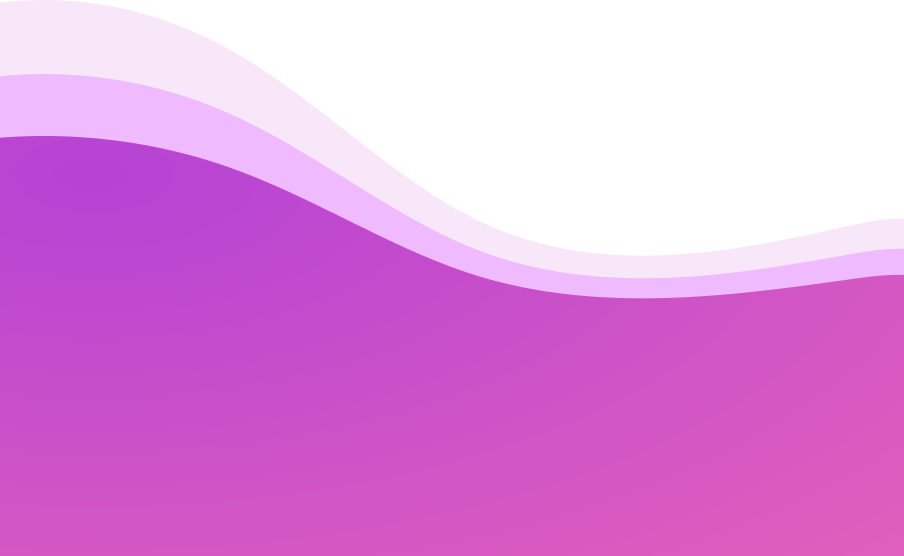
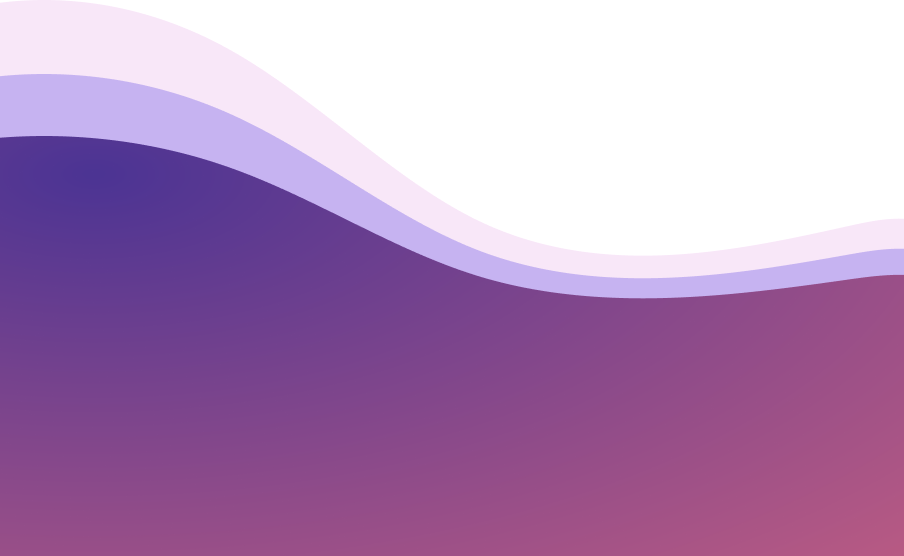
demo update merchant

diff --git a/src/screens/home/index.js b/src/screens/home/index.js
@@ -25,9 +25,13 @@ const HomeScreen = ({navigation}) => {
   // ===== SET STATUS BAR
   useFocusEffect(
     React.useCallback(() => {
-      StatusBar.setBackgroundColor(Colors.COLOR_SECONDARY);
+      StatusBar.setBackgroundColor(Colors.COLOR_PRIMARY);
+      StatusBar.setBarStyle('light-content');
 
-      return () => StatusBar.setBackgroundColor(Colors.COLOR_WHITE);
+      return () => {
+        StatusBar.setBackgroundColor(Colors.COLOR_WHITE);
+        StatusBar.setBarStyle('dark-content');
+      };
     }, []),
   );
 
@@ -131,7 +135,7 @@ const HomeScreen = ({navigation}) => {
             <Icon
               name="md-notifications-outline"
               size={20}
-              color={Colors.COLOR_BLACK}
+              color={Colors.COLOR_PRIMARY}
             />
           </Touchable>
         </Row>
@@ -147,7 +151,14 @@ const HomeScreen = ({navigation}) => {
         <View style={styles.cardContainer}>
           <Row>
             <View>
-              <Text style={styles.textBalanceCaption}>Total Saldo</Text>
+              <Row>
+                <Text style={styles.textBalanceCaption}>Saldo</Text>
+                <Image
+                  source={IMG.logo}
+                  style={styles.logoSmall}
+                  resizeMode={'contain'}
+                />
+              </Row>
               <Row>
                 <Text style={styles.textRp}>Rp</Text>
                 <Text style={styles.textRupiah}>10.000</Text>
@@ -246,7 +257,7 @@ const HomeScreen = ({navigation}) => {
 
   return (
     <SafeAreaView style={styles.container} forceInset={{top: 'always'}}>
-      <StatusBar backgroundColor={Colors.COLOR_SECONDARY} />
+      <StatusBar backgroundColor={Colors.COLOR_PRIMARY} />
       {_renderHeader()}
       {_renderCardBalance()}
       {_renderService()}
@@ -257,7 +268,7 @@ const HomeScreen = ({navigation}) => {
 const styles = StyleSheet.create({
   container: {
     flex: 1,
-    backgroundColor: Colors.COLOR_SECONDARY,
+    backgroundColor: Colors.COLOR_PRIMARY,
   },
 
   header: {
@@ -314,7 +325,7 @@ const styles = StyleSheet.create({
   },
 
   notifButton: {
-    backgroundColor: Colors.COLOR_DARK_BACKGROUND,
+    backgroundColor: Colors.COLOR_WHITE,
     width: Scaler.scaleSize(28),
     height: Scaler.scaleSize(28),
     alignItems: 'center',
@@ -343,10 +354,23 @@ const styles = StyleSheet.create({
     marginVertical: Size.SIZE_8,
   },
 
+  iconService: {
+    width: Scaler.scaleSize(42),
+    height: Scaler.scaleSize(42),
+  },
+
+  logoSmall: {
+    width: Scaler.scaleSize(40),
+    height: Scaler.scaleSize(20),
+    marginTop: -4,
+    marginLeft: 4,
+  },
+
   // ======= TEXT STYLE
 
   textName: {
     ...Typo.TextSmallMedium,
+    color: Colors.COLOR_WHITE,
   },
 
   textActivateAcc: {

diff --git a/src/screens/login/index.js b/src/screens/login/index.js
@@ -112,6 +112,16 @@ const LoginScreen = ({navigation, route}) => {
           </Touchable>
         </Row>
       </View>
+      <View style={styles.bottomContainer}>
+        <Row>
+          <Text style={styles.textPoweredBy}>Powered by</Text>
+          <Image
+            source={IMG.logo}
+            style={styles.logoBy}
+            resizeMode={'contain'}
+          />
+        </Row>
+      </View>
       <Modal visible={isLoading} type={'loading'} />
     </KeyboardAvoidingView>
   );
@@ -129,6 +139,12 @@ const styles = StyleSheet.create({
   logo: {
     width: Scaler.scaleSize(128),
     height: Scaler.scaleSize(128),
+  },
+
+  logoBy: {
+    width: Scaler.scaleSize(64),
+    height: Scaler.scaleSize(64),
+    marginLeft: Size.SIZE_8,
   },
 
   loginButton: {
@@ -155,6 +171,13 @@ const styles = StyleSheet.create({
     padding: Size.SIZE_24,
   },
 
+  bottomContainer: {
+    position: 'absolute',
+    alignSelf: 'center',
+    bottom: 0,
+    marginBottom: Size.SIZE_14,
+  },
+
   // ==== TEXT STYLE
 
   textDesc: {
@@ -163,6 +186,11 @@ const styles = StyleSheet.create({
 
   textRegisterButton: {
     ...Typo.TextNormalBold,
+  },
+
+  textPoweredBy: {
+    ...Typo.TextSmallRegular,
+    color: Colors.COLOR_WHITE,
   },
 });
 

diff --git a/src/screens/splash/styles.js b/src/screens/splash/styles.js
@@ -1,17 +1,35 @@
 import {StyleSheet} from 'react-native';
-import {Colors} from '../../styles';
+import {Colors, Scaler, Size, Typo} from '../../styles';
 
 const styles = StyleSheet.create({
   container: {
     flex: 1,
     alignItems: 'center',
     justifyContent: 'center',
-    backgroundColor: Colors.COLOR_WHITE,
+    backgroundColor: Colors.COLOR_PRIMARY,
   },
 
   logo: {
     height: 100,
     width: 100,
+  },
+
+  logoBy: {
+    width: Scaler.scaleSize(64),
+    height: Scaler.scaleSize(64),
+    marginLeft: Size.SIZE_8,
+  },
+
+  bottomContainer: {
+    position: 'absolute',
+    alignSelf: 'center',
+    bottom: 0,
+    marginBottom: Size.SIZE_14,
+  },
+
+  textPoweredBy: {
+    ...Typo.TextSmallRegular,
+    color: Colors.COLOR_WHITE,
   },
 });
 

diff --git a/src/screens/splash/index.js b/src/screens/splash/index.js
@@ -1,5 +1,6 @@
 import * as React from 'react';
 import {View, Text, Image} from 'react-native';
+import {Row} from '../../components';
 import {AuthContext} from '../../context';
 import {IMG} from '../../utils/images';
 import {retrieveData} from '../../utils/store';
@@ -33,6 +34,16 @@ const SplashScreen = ({navigation}) => {
   return (
     <View style={styles.container}>
       <Image source={IMG.logo} style={styles.logo} resizeMode={'contain'} />
+      <View style={styles.bottomContainer}>
+        <Row>
+          <Text style={styles.textPoweredBy}>Powered by</Text>
+          <Image
+            source={IMG.logo}
+            style={styles.logoBy}
+            resizeMode={'contain'}
+          />
+        </Row>
+      </View>
     </View>
   );
 };

diff --git a/src/components/modal/type/loading/index.js b/src/components/modal/type/loading/index.js
@@ -7,7 +7,7 @@ import styles from './styles';
 const ModalLoading = () => {
   return (
     <Card style={styles.container}>
-      <ActivityIndicator color={Colors.COLOR_ACCENT} />
+      <ActivityIndicator color={Colors.COLOR_PRIMARY} />
     </Card>
   );
 };

diff --git a/src/styles/colors.js b/src/styles/colors.js
@@ -1,5 +1,5 @@
 //MAIN COLOR
-export const COLOR_PRIMARY = '#B643D5';
+export const COLOR_PRIMARY = '#4C3494';
 export const COLOR_SECONDARY = '#F8E7F8';
 export const COLOR_ACCENT = '#ffa418';
 export const COLOR_DARK_BACKGROUND = '#F0BAFF';
